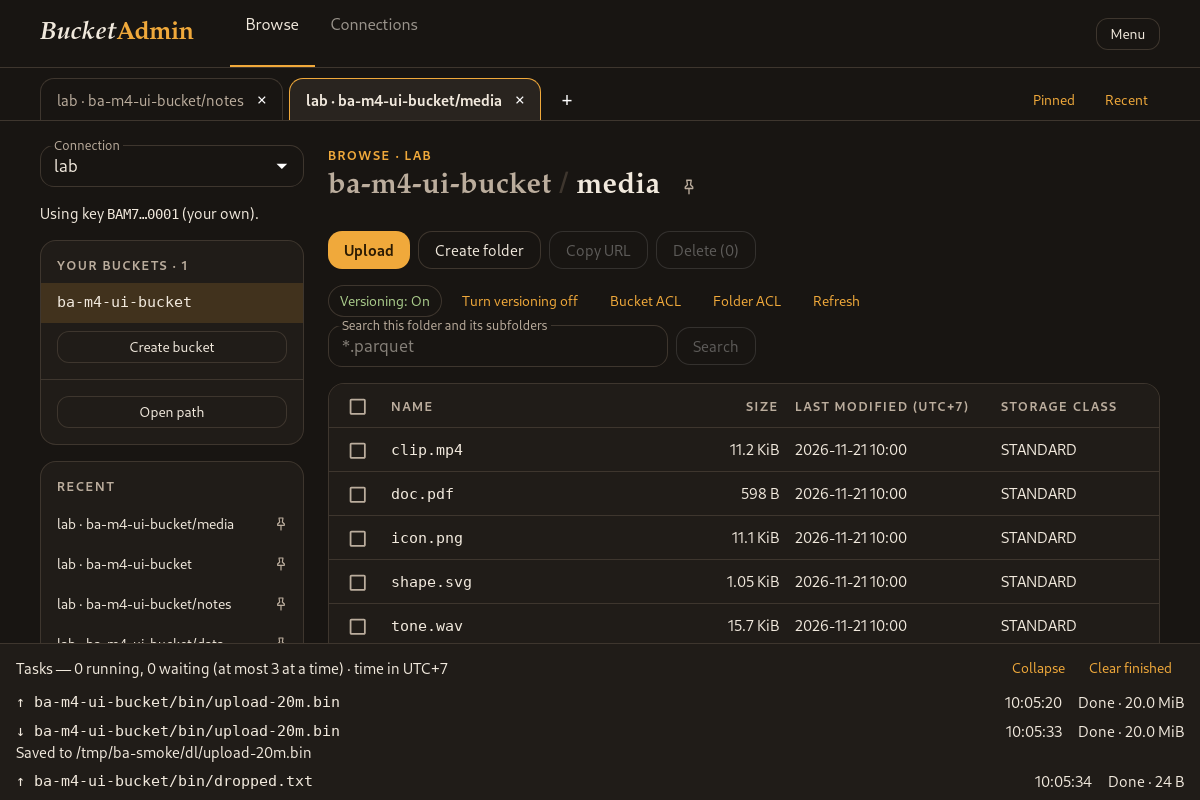
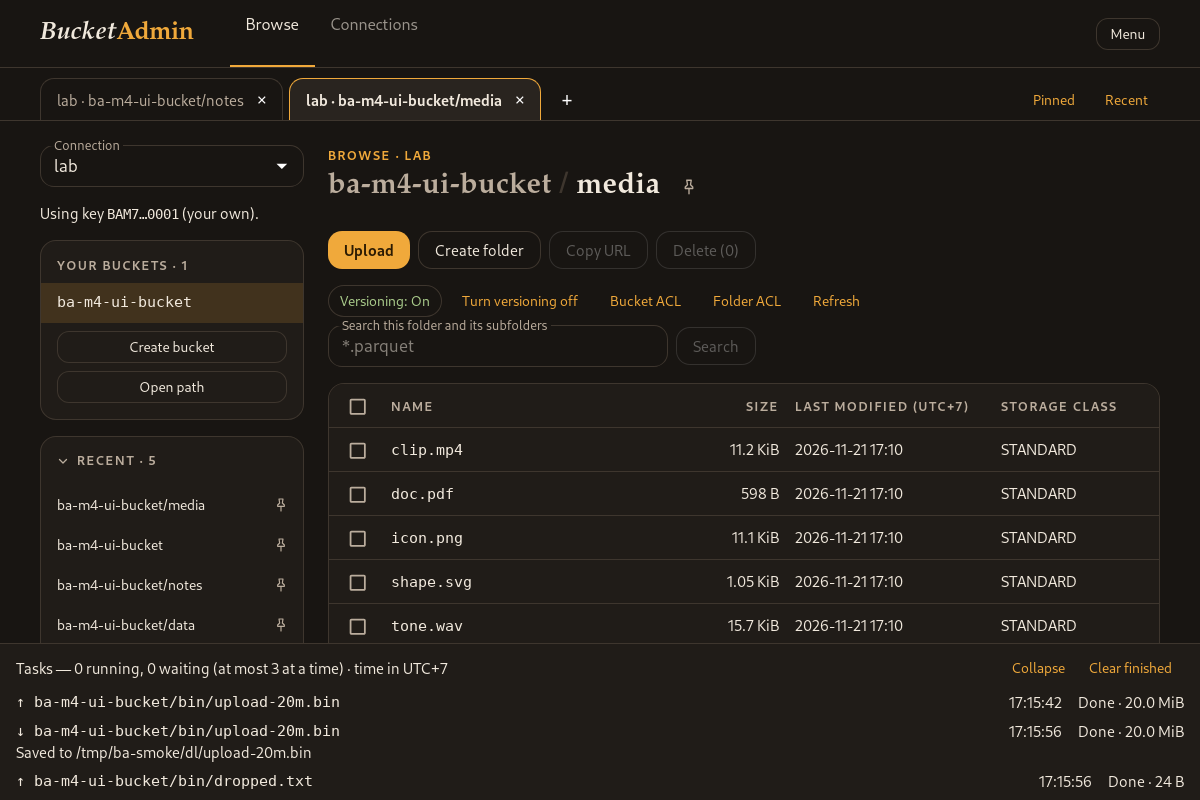
M11 docs: screenshots of the new sidebar (en + vi, dark + light)
Taken from the vi and en smoke runs of this branch. The READMEs say where the
Pinned and Recent cards are now and that they fold.

diff --git a/README.vi.md b/README.vi.md
@@ -137,6 +137,8 @@ Ghim những nơi bạn dùng hằng ngày: một bucket, hoặc một thư mụ
   Bấm là mở trong tab hiện tại; `Ctrl`+bấm hoặc nút chuột giữa thì mở tab mới.
 - Chuột phải vào một vị trí đã ghim để mở trong tab mới, đổi tên, bỏ ghim, chuyển lên hoặc chuyển xuống. Tối đa 100 vị trí.
 - Nút **Đã ghim** cạnh Gần đây trên thanh ứng dụng liệt kê 15 vị trí đầu, dùng được ở mọi nơi trong app.
+- Ở cột bên trái, danh sách bucket đứng đầu; khung **Đã ghim** và **Gần đây** nằm dưới nó. Bấm vào tiêu đề của một khung để
+  thu khung về đúng một dòng đó (nhớ qua các lần mở app); Gần đây hiện 5 vị trí mới nhất cho tới khi bấm "Hiện tất cả".
 
 ### Key admin (không bắt buộc)
 

diff --git a/README.md b/README.md
@@ -144,6 +144,8 @@ Pin what you use every day: a bucket, or a folder any number of levels down.
   connections under a divider. A click opens the place in the current tab; `Ctrl`+click or the middle button opens a new tab.
 - Right-click a pin to open it in a new tab, rename it, unpin it, or move it up or down. Up to 100 pins are kept.
 - The **Pinned** button next to Recent in the app bar lists the first 15 from anywhere in the app.
+- In the left column the bucket list comes first; the **Pinned** and **Recent** cards follow it. A click on a card's heading
+  folds the card to that one line (remembered between runs), and Recent shows the 5 newest places until "Show all".
 
 ### Admin key (optional)
 
